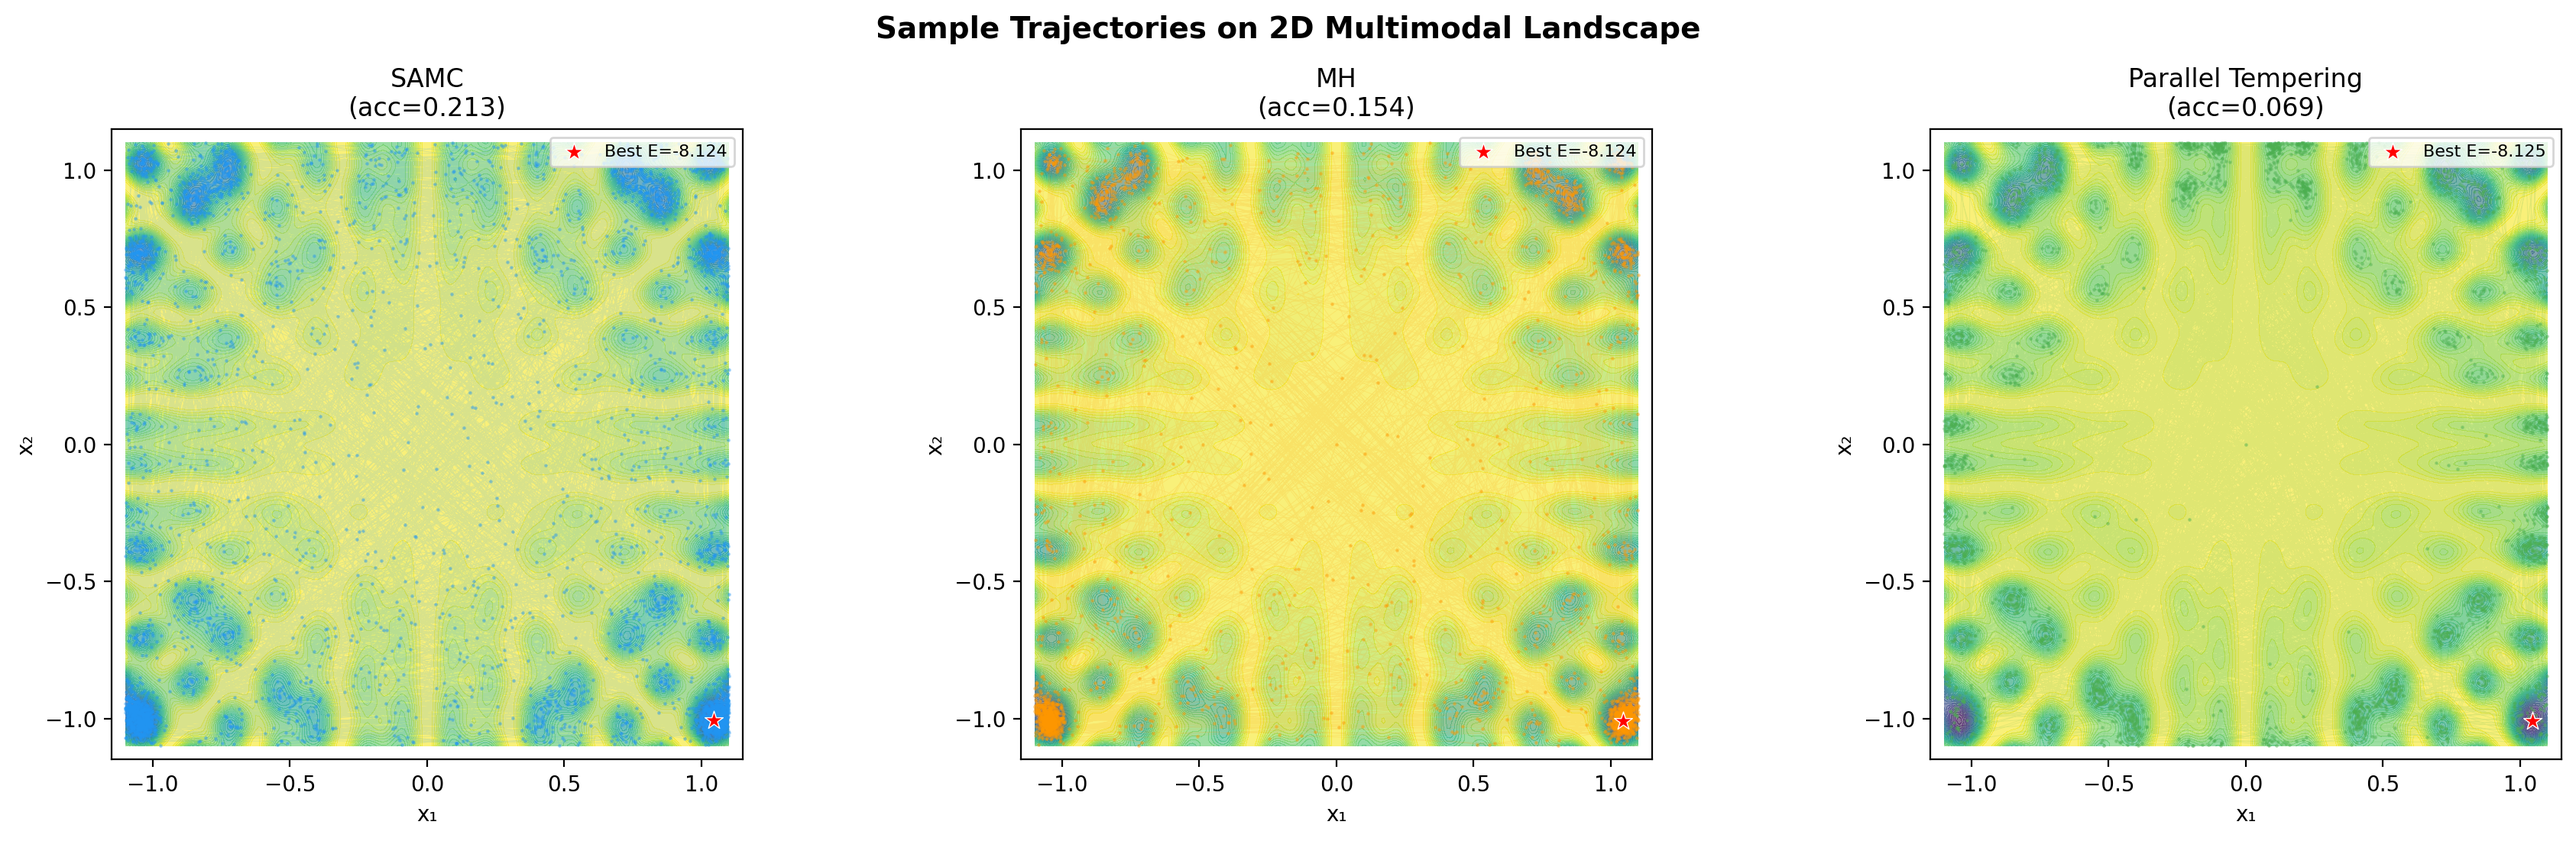
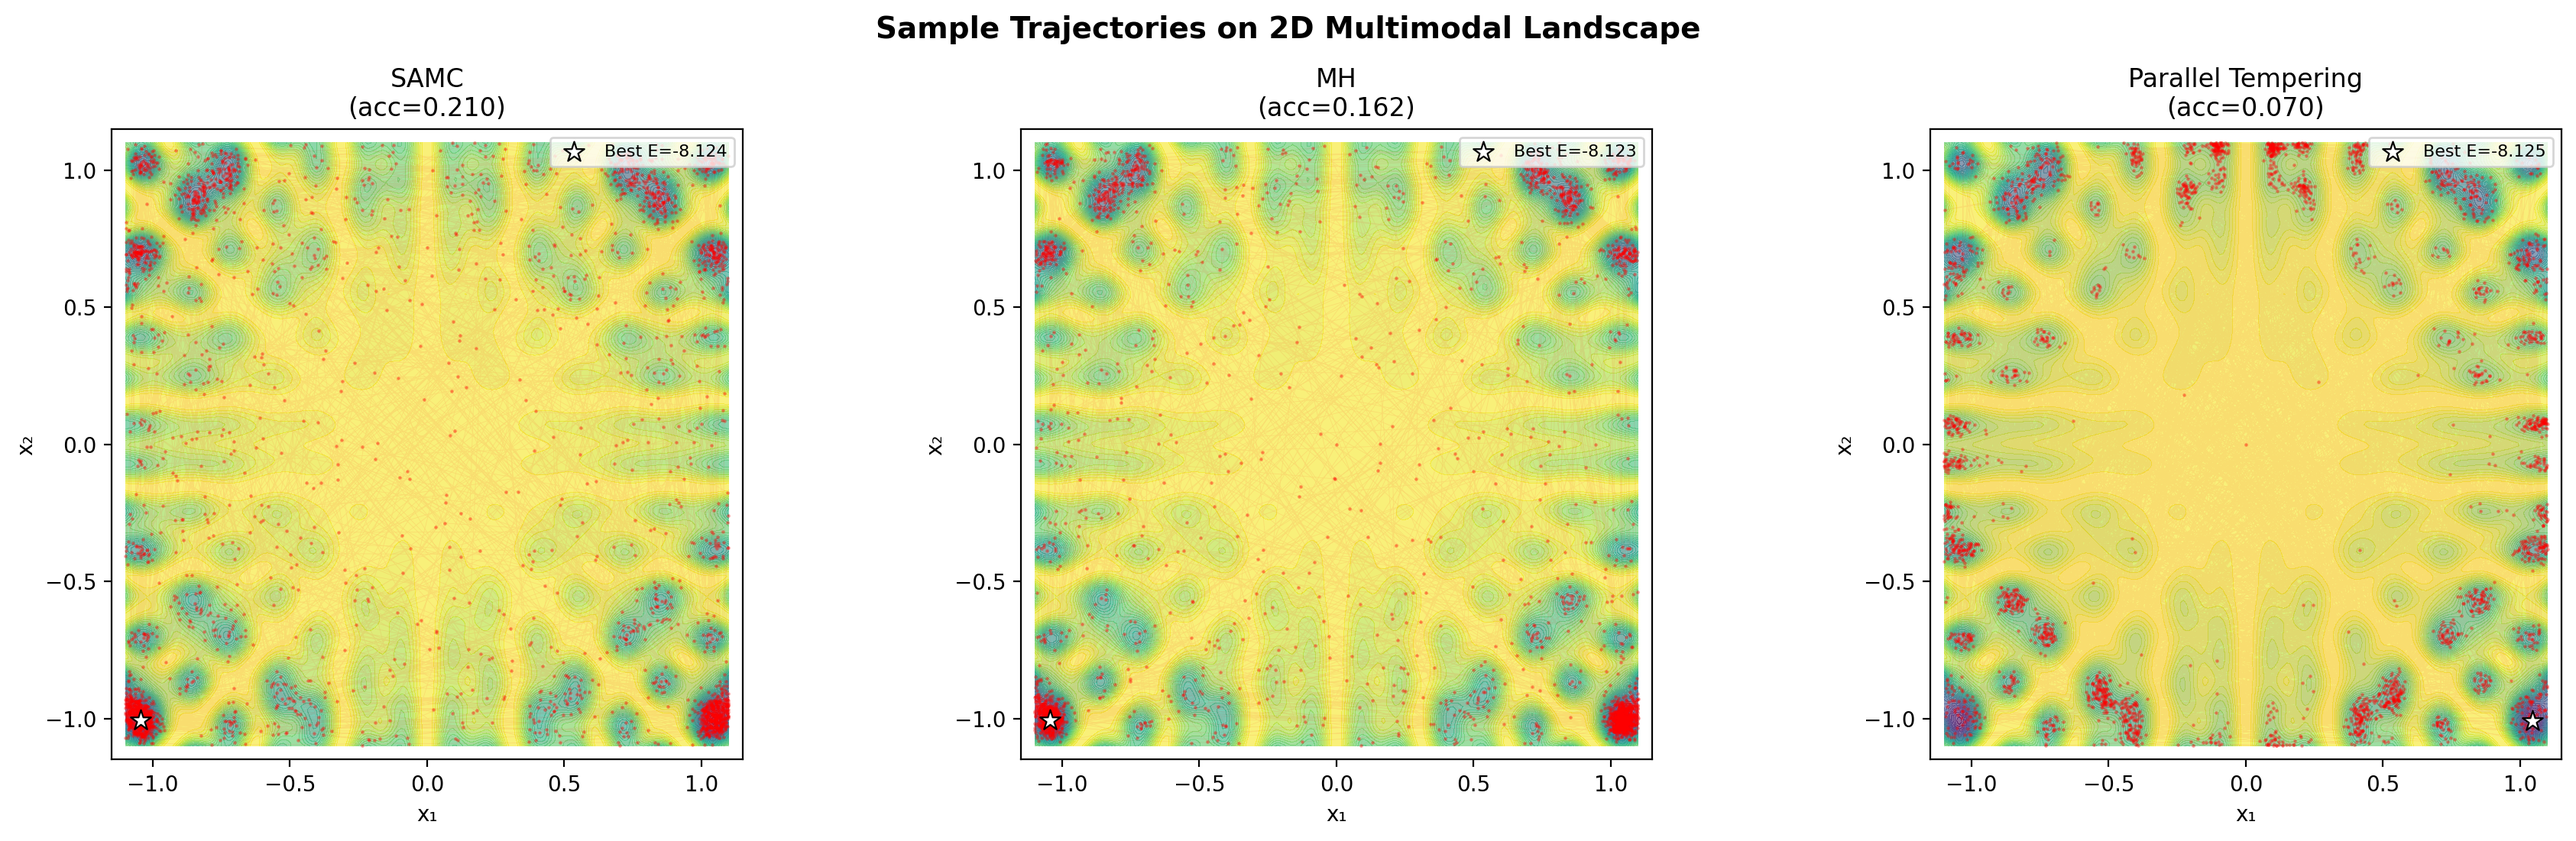
Use red sample points in trajectory plot for contrast

diff --git a/benchmarks/vs_mh_pt.py b/benchmarks/vs_mh_pt.py
@@ -396,9 +396,9 @@ def plot_trajectories_2d(results_2d: dict):
         step = max(1, n // 3000)
         sx, sy = samples[::step, 0], samples[::step, 1]
 
-        # Plot trajectory as line + scatter
-        ax.plot(sx, sy, color=color, alpha=0.15, linewidth=0.3, zorder=2)
-        ax.scatter(sx, sy, c=color, s=0.5, alpha=0.4, zorder=3)
+        # Plot trajectory as line + scatter (red for contrast against viridis)
+        ax.plot(sx, sy, color="red", alpha=0.08, linewidth=0.3, zorder=2)
+        ax.scatter(sx, sy, c="red", s=0.5, alpha=0.35, zorder=3)
 
         # Mark best point
         best_x = results_2d[method].get("best_x", None)
@@ -410,12 +410,12 @@ def plot_trajectories_2d(results_2d: dict):
             ax.scatter(
                 best_x[0],
                 best_x[1],
-                c="red",
-                s=80,
+                c="white",
+                s=100,
                 marker="*",
                 zorder=5,
-                edgecolors="white",
-                linewidths=0.5,
+                edgecolors="black",
+                linewidths=0.8,
                 label=f"Best E={results_2d[method]['best_energy']:.3f}",
             )
 
